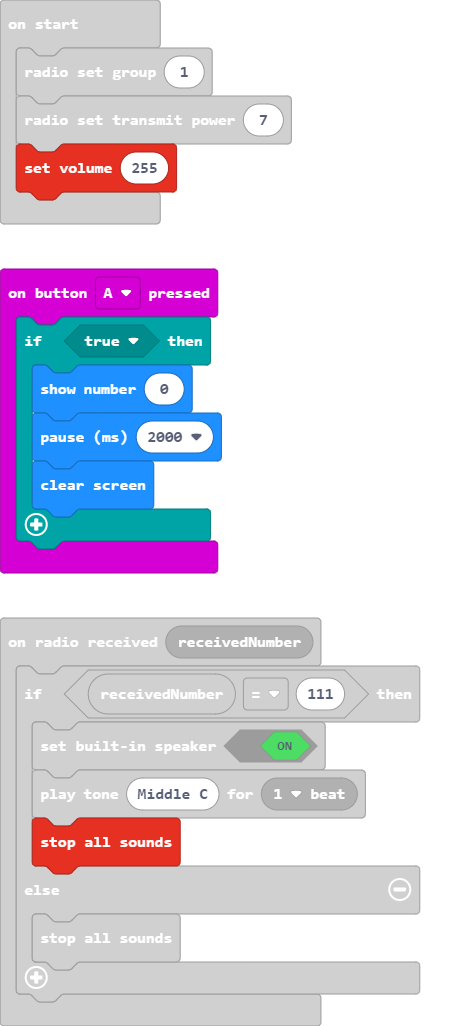
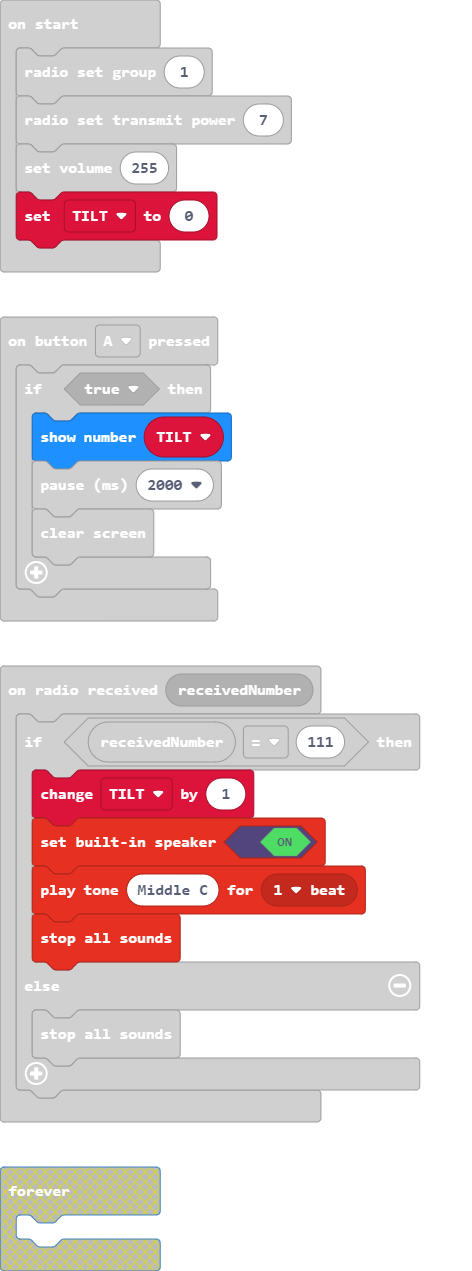
Added TILT and changed sounds a little. Still appears to work

diff --git a/main.ts b/main.ts
@@ -1,5 +1,6 @@
 radio.onReceivedNumber(function (receivedNumber) {
     if (receivedNumber == 111) {
+        TILT += 1
         music.setBuiltInSpeakerEnabled(true)
         music.playTone(262, music.beat(BeatFraction.Whole))
         music.stopAllSounds()
@@ -9,14 +10,13 @@ radio.onReceivedNumber(function (receivedNumber) {
 })
 input.onButtonPressed(Button.A, function () {
     if (true) {
-        basic.showNumber(0)
+        basic.showNumber(TILT)
         basic.pause(2000)
         basic.clearScreen()
     }
 })
+let TILT = 0
 radio.setGroup(1)
 radio.setTransmitPower(7)
 music.setVolume(255)
-basic.forever(function () {
-	
-})
+TILT = 0
